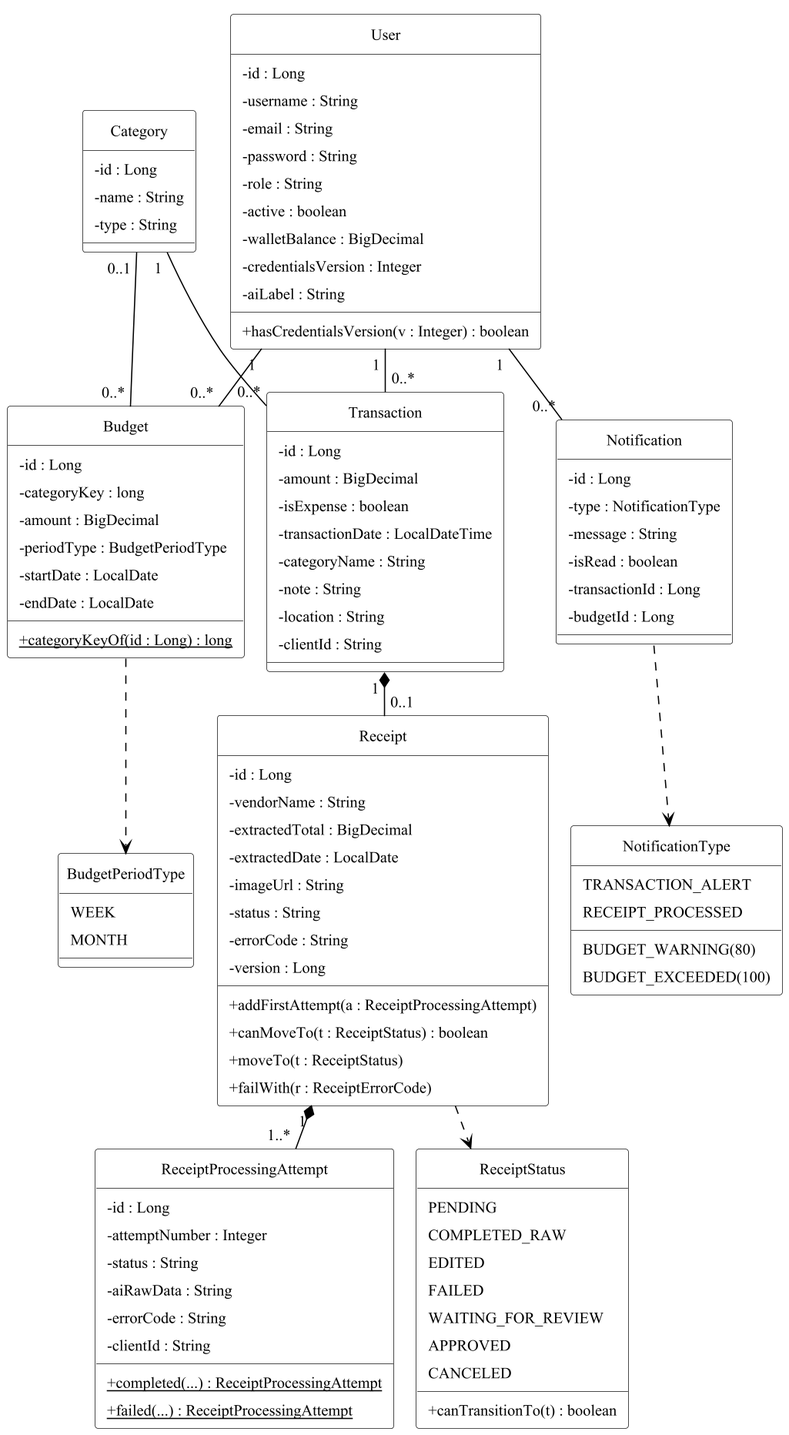
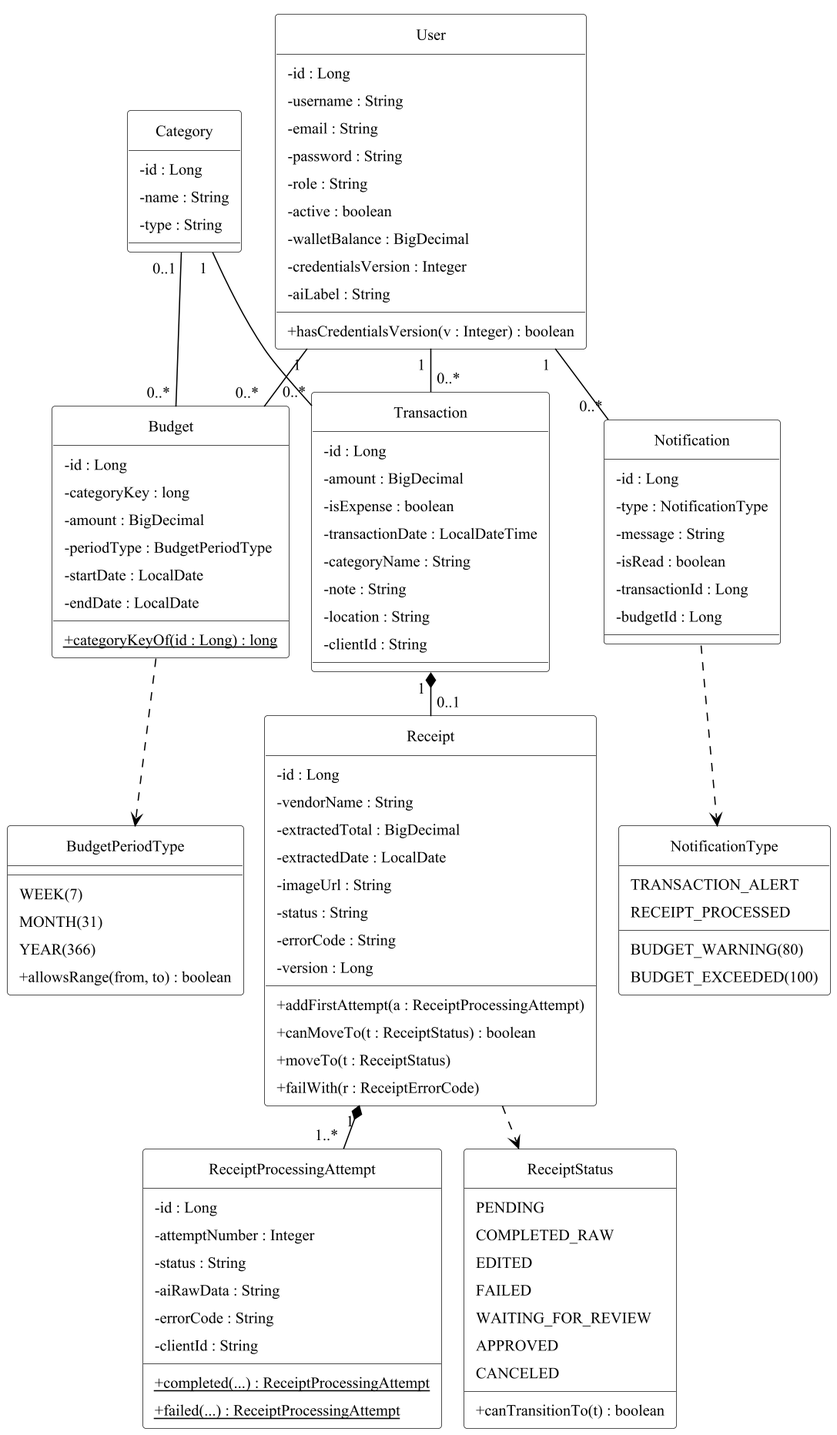
docs(thesis): v9 fixes stale facts, redraws budget/navigation/class diagrams, reviews the v8 sections

diff --git a/docs/thesis/build/content_v9.py b/docs/thesis/build/content_v9.py
@@ -1,0 +1,259 @@
+# Nội dung phiên v9 (26/10/2026): sửa các câu đã lỗi thời sau T4 (song ngữ), đợt sửa lỗi (6bc797c, 1898d1c, e619f54:
+# InsufficientBalanceException khi checkout và khi xóa khoản thu, khóa ví cả khi không có clientId, GET /api/auth/check +
+# forward_auth của Caddy, BackupType FULL/SCHEMA_ONLY/DATA_ONLY, users.html và nút Duyệt/Từ chối trên receipts.html,
+# phiên tương tác dùng chung cho _dio và _mlDio, chạm thông báo mở giao dịch), T10/T11 (kỳ năm, hàng chờ quét) và T5
+# (AI Service phục vụ V5, bộ nhớ 3 GB). Sinh KhoaLuan_KLCN175_v9.docx từ v8 bằng builder.py.
+# Vẽ lại: ch3_lop_thiet_ke_thuc_the (BudgetPeriodType có YEAR), ch2_ngan_sach_hoat_dong (kỳ năm, danh mục theo tên),
+# ch3_dieu_huong_di_dong (PendingReceiptsScreen từ banner), ch3_trien_khai (3 GB, forward_auth),
+# ch3_hang_doi_trang_thai (nhãn chuyển reading → queued).
+# Đối chiếu mã nguồn tại HEAD 5ce957c: TransactionService (create/delete/moveWallet, refuseDuplicateReceipt),
+# TransactionRepository.findPossibleReceiptDuplicates (LEFT JOIN FETCH), AuthPaths (CHECK), deploy/caddy/Caddyfile,
+# AdminController, templates/admin/{_layout, users, receipts, backup}.html, Entity/BackupType, GlobalExceptionHandler
+# (AiServiceUnavailableException 503), docker-compose.yml (data-mining-api 3G), ai-service/ai_service.py (Version5),
+# mobile-app lib/services/{receipt_scan_queue, remote_api_helper}.dart, screens/{main_scaffold, ledger/edit_transaction_page,
+# receipt_scanner/pending_receipts_screen, notifications/notification_destination}.dart.
+# Số trong văn bản: số Hình/Bảng cũ theo v8 (RENUMBER tự đổi); hình mới tham chiếu bằng [[khóa]].
+PNG = "/home/triphan/Workspace/Deploy_Project/docs/thesis/diagrams/"
+SESSION_TAG = None
+SECTIONS = {}
+RENUMBER = True
+SRC = "nguồn: nhóm thực hiện"
+
+IMAGE_REPLACE = [
+    ("ch2_ngan_sach_hoat_dong.png", PNG + "ch2_ngan_sach_hoat_dong.png", "fit"),
+    ("ch3_trien_khai.png", PNG + "ch3_trien_khai.png"),
+    ("ch3_dieu_huong_di_dong.png", PNG + "ch3_dieu_huong_di_dong.png"),
+    ("ch3_lop_thiet_ke_thuc_the.png", PNG + "ch3_lop_thiet_ke_thuc_the.png"),
+    ("ch3_hang_doi_trang_thai.png", PNG + "ch3_hang_doi_trang_thai.png"),
+]
+
+# Ghi chú tô vàng đã hết hiệu lực sau đợt sửa lỗi (users.html sửa đường dẫn khóa, receipts.html có nút Duyệt/Từ chối).
+PARA_DELETE = [
+    "[Nhóm] Nút khóa/mở khóa trên trang users.html",
+    "[Nhóm] Trang /admin/receipts hiện chỉ hiển thị danh sách",
+    "[Nhóm] UC17 mô tả chức năng ở Core Backend.",
+    "[Nhóm] receipts.html chưa có nút Duyệt/Từ chối",
+]
+
+INSERT_BEFORE = [
+    ("[Nhóm] Chèn ảnh chụp màn hình /admin/receipts",
+     [("fig", "Trang Quản lý người dùng", "3", None, 0, SRC,
+       "[Nhóm] Chèn ảnh chụp màn hình /admin/users (templates/admin/users.html).", "ui_users")]),
+]
+
+PARA_REPLACE = [
+    # Chương 1 – Docker: Caddy là dịch vụ thứ sáu (T8)
+    ("Docker đóng gói ứng dụng cùng toàn bộ phụ thuộc",
+     ("p", "Docker đóng gói ứng dụng cùng toàn bộ phụ thuộc thành image (ảnh đóng gói) và chạy dưới dạng container (vùng "
+           "chạy cô lập); Docker Compose mô tả nhiều container cùng mạng, volume (vùng lưu trữ) và thứ tự khởi động trong "
+           "một tệp YAML [38]. Hệ thống của đề tài được mô tả trong một tệp docker-compose.yml gồm sáu dịch vụ: reverse "
+           "proxy Caddy, PostgreSQL, Redis, MongoDB, Core Backend và AI Service. Core Backend chỉ khởi động khi "
+           "PostgreSQL, Redis và AI Service đã vượt qua kiểm tra sức khỏe (healthcheck); MongoDB không chặn việc khởi "
+           "động vì chỉ dùng để lưu nhật ký.")),
+    # 2.2 – đoạn kết: khóa ví không còn phụ thuộc clientId
+    ("Sáu quy trình trên cho thấy ba điểm chung",
+     ("p", "Sáu quy trình trên cho thấy ba điểm chung về cách hệ thống xử lý dữ liệu. Thứ nhất, mọi thay đổi số dư ví đều "
+           "đi qua Core Backend. Các thao tác tạo, sửa, xóa giao dịch và duyệt hóa đơn đều khóa bản ghi ví trước khi đọc "
+           "số dư và từ chối thay đổi nào làm số dư âm, nên hai yêu cầu đồng thời không ghi đè lên nhau; khi tạo giao "
+           "dịch, mã clientId bảo đảm một giao dịch gửi lặp không làm trừ tiền hai lần. Thứ hai, ứng dụng di động gọi "
+           "trực tiếp AI Service cho các tác vụ đọc hóa đơn và phân tích, còn kết quả chỉ được ghi vào cơ sở dữ liệu khi "
+           "người dùng xác nhận; khi chưa gửi được, giao dịch nằm trong hàng đợi trên thiết bị cùng kết quả gốc của AI. "
+           "Thứ ba, các thao tác thay đổi dữ liệu quan trọng đều có bản ghi trong nhật ký hoạt động. Mục 2.3 dựa trên các "
+           "quy trình này để xác định use case ở mức hệ thống.")),
+    ("Hai mươi hai use case trên phủ toàn bộ chức năng",
+     ("p", "Hai mươi sáu use case trên (UC01–UC26) phủ toàn bộ chức năng mà ứng dụng di động và Web Admin đang cung cấp. "
+           "Các chức năng có trong mã nguồn nhưng chưa được giao diện nào gọi (ví dụ đường dẫn lọc giao dịch, bảng điều "
+           "khiển tổng hợp của người dùng hay đường dẫn gửi phản hồi về hóa đơn) không được đưa vào danh sách. Các bảng "
+           "đặc tả này là cơ sở để xây dựng sơ đồ lớp mức phân tích ở mục 2.4.")),
+    # 3.2.1 – Caddy chặn /ai/donut, /ai/spade khi chưa đăng nhập
+    ("Mọi yêu cầu từ bên ngoài đi qua reverse proxy",
+     ("p", "Mọi yêu cầu từ bên ngoài đi qua reverse proxy (máy chủ ủy quyền ngược) Caddy [52]. Caddy chuyển /ai/donut/, "
+           "/ai/spade/ và /ai/health tới AI Service (bỏ tiền tố /ai), chặn các đường dẫn /actuator/* trừ /actuator/health, "
+           "và chuyển phần còn lại tới Core Backend. Riêng /ai/donut/ và /ai/spade/ chỉ được chuyển tiếp khi Core Backend "
+           "xác nhận access token của yêu cầu qua GET /api/auth/check (cơ chế forward_auth của Caddy), nên người chưa đăng "
+           "nhập không gọi được mô hình. Đường dẫn /admin/segment của AI Service không đi ra ngoài được; chỉ Core Backend "
+           "gọi nó qua mạng nội bộ khi quản trị viên chạy phân khúc khách hàng. Bảng 3.1 tóm tắt vai trò của từng thành "
+           "phần.")),
+    # 3.3.4 – LB2 nay áp cho mọi đường đổi số dư
+    ("Một số ràng buộc hiện chỉ được bảo đảm ở tầng ứng dụng",
+     ("p", "Một số ràng buộc hiện chỉ được bảo đảm ở tầng ứng dụng, chưa có ràng buộc tương ứng ở CSDL: amount > 0 của "
+           "giao dịch, rating từ 1 đến 5, các trạng thái của receipts (cột chuỗi, không phải enum), và LB2 về số dư không "
+           "âm (cột wallet_balance không có CHECK). LB2 được kiểm tra trên mọi đường đổi số dư: thêm, sửa giao dịch, xóa "
+           "một khoản thu và duyệt hóa đơn đều đi qua moveWallet() khi dòng ví đang bị khóa, nên hai yêu cầu đồng thời "
+           "không thể cùng vượt qua kiểm tra. Nhóm ghi nhận việc bổ sung các ràng buộc CHECK ở CSDL cho phiên bản sau.")),
+    # 3.6.1 – T4 đã dịch toàn bộ ứng dụng
+    ("Ứng dụng di động được xây dựng bằng Flutter [33] theo hệ thống thiết kế Material 3",
+     ("p", "Ứng dụng di động được xây dựng bằng Flutter [33] theo hệ thống thiết kế Material 3 [57] (useMaterial3 = true, "
+           "bảng màu sinh từ ColorScheme.fromSeed, phông chữ Poppins). Mỗi màn hình có hai bộ màu sáng và tối. Mọi chuỗi "
+           "giao diện của các màn hình đều lấy từ tệp ARB tiếng Việt và tiếng Anh (mục 4.7.3), nên đổi ngôn ngữ trong Cài "
+           "đặt là đổi toàn bộ ứng dụng; chỉ dữ liệu do người dùng nhập và thông báo lỗi tiếng Việt từ Core Backend giữ "
+           "nguyên ngôn ngữ gốc. Sau khi đăng nhập, người dùng vào MainScaffold: khung này giữ bốn tab Trang chủ "
+           "(DashboardPage), Thống kê (LedgerPage, tiêu đề màn hình là Sổ sách), AI (AITabPage) và Cá nhân (ProfilePage) "
+           "trong một IndexedStack (ngăn xếp chỉ hiển thị một con) để không dựng lại tab khi chuyển qua lại, và đặt nút "
+           "tròn Quét AI ở giữa thanh điều hướng. Bảng 3.25 liệt kê các màn hình cùng use case ở Chương 2 mà mỗi màn hình "
+           "hiện thực.")),
+    ("Hình 3.5 thể hiện đường đi giữa các màn hình chính.",
+     ("p", "Hình 3.5 thể hiện đường đi giữa các màn hình chính. Luồng xác thực là một nhánh riêng: chỉ khi đăng nhập thành "
+           "công, ứng dụng mới thay toàn bộ ngăn xếp điều hướng bằng MainScaffold (lệnh pushAndRemoveUntil, đẩy màn hình "
+           "mới và xóa các màn hình cũ), nên nút quay lại không đưa người dùng về màn hình đăng nhập. Từ MainScaffold, nút "
+           "Quét AI mở thẳng ReviewFormPage khi quét một ảnh, còn banner hàng chờ phía trên thanh tab mở "
+           "PendingReceiptsScreen, nơi mỗi hóa đơn Sẵn sàng lại mở ReviewFormPage. Chạm một thông báo giao dịch hoặc hóa "
+           "đơn đưa người dùng về Sổ sách với bảng chi tiết của giao dịch đó.")),
+    # 3.6.2 – Web Admin sau khi tách users.html
+    ("Web Admin là các trang Thymeleaf [55] do Core Backend sinh",
+     ("p", "Web Admin là các trang Thymeleaf [55] do Core Backend sinh ở phía máy chủ, dùng Bootstrap 5.3 [56] cho bố cục "
+           "và Chart.js [58] cho biểu đồ. Mọi trang dùng chung khung layout/_layout.html: thanh trên có tiêu đề trang và nút "
+           "Đăng xuất, thanh bên trái có tám mục Bảng điều khiển, Quản lý Danh mục, Quản lý Gói Hội Viên, Quản lý Người "
+           "dùng, Quản lý Hóa đơn AI, Quản lý Đánh giá, Nhật ký Hệ thống, Backup Dữ liệu. Khác với ứng dụng di động dùng "
+           "JWT, Web Admin dùng chuỗi bộ lọc riêng của Spring Security với đăng nhập bằng biểu mẫu và phiên làm việc; mọi "
+           "đường dẫn /admin/ yêu cầu vai trò ROLE_ADMIN. Các thao tác thêm, sửa, xóa trên trang gọi các endpoint "
+           "/admin/ajax/ bằng hàm fetch (gửi yêu cầu HTTP từ JavaScript) rồi cập nhật bảng. Bảng 3.26 liệt kê các trang.")),
+    ("Trang Quản lý User &",
+     ("p", "Trang Quản lý người dùng ([[ui_users]]) là bảng phân trang gồm ID, username, email, số điện thoại, vai trò và "
+           "cột trạng thái với các nút Sửa, Khóa/Mở khóa, Xóa, cùng nút Thêm người dùng mở hộp thoại tạo tài khoản. Trang "
+           "Quản lý hóa đơn AI (Hình 3.37) là bảng phân trang gồm ID, tên cửa hàng, số tiền AI đọc được, nút xem ảnh gốc, "
+           "trạng thái (Thành công, Lỗi AI, Đang xử lý) và cột Hành động. Nút Duyệt chỉ hiện ở hóa đơn được phép chuyển "
+           "sang APPROVED, nút Từ chối chỉ hiện ở hóa đơn được phép chuyển sang FAILED; hai nút gửi POST tới "
+           "/admin/receipts/approve/{id} và /admin/receipts/reject/{id} (mục 3.8.6).")),
+    ("Trang Đánh giá (Hình 3.38) liệt kê đánh giá",
+     ("p", "Trang Đánh giá (Hình 3.38) liệt kê đánh giá từ ứng dụng với số sao, nội dung, trạng thái Chờ duyệt/Đã duyệt và "
+           "nút Duyệt, Xóa. Trang Nhật ký hệ thống (Hình 3.39) chia thành các thẻ Dữ liệu (CRUD), Bảo mật, Thống kê và Tra "
+           "cứu nâng cao; thẻ tra cứu lọc theo người thực hiện, loại và mã đối tượng, khoảng thời gian, và thẻ Bảo mật có "
+           "nút Gỡ khóa cho tài khoản đang bị khóa đăng nhập. Trang Sao lưu (Hình 3.40) có ba nút sao lưu ứng với ba giá trị "
+           "của BackupType: FULL (toàn bộ cấu trúc và dữ liệu), SCHEMA_ONLY (chỉ cấu trúc) và DATA_ONLY (chỉ dữ liệu); mỗi "
+           "loại chạy pg_dump ở định dạng custom với tham số riêng, và loại không thuộc danh sách bị từ chối. Nút phục "
+           "hồi kèm cảnh báo xác nhận chỉ dùng bản FULL mới nhất, vì hai bản còn lại không tự dựng lại được CSDL.")),
+    # 3.7 – khóa ví khi tạo giao dịch không còn phụ thuộc clientId; _mlDio có token
+    ("Hình 3.42 trình bày ba tầng của Core Backend.",
+     ("p", "Hình 3.42 trình bày ba tầng của Core Backend. Controller chỉ nhận yêu cầu, kiểm tra dữ liệu bằng @Valid và gọi "
+           "service; service giữ toàn bộ nghiệp vụ trong giao dịch @Transactional; repository là các interface Spring Data "
+           "JPA. Người dùng hiện tại luôn được CurrentUserProvider lấy từ SecurityContext. TransactionService là lớp trung "
+           "tâm: nó khóa dòng ví bằng PESSIMISTIC_WRITE (lockWallet) trước khi đổi số dư ở mọi thao tác tạo, sửa, xóa "
+           "giao dịch và duyệt hóa đơn, đổi số dư qua moveWallet() (ném InsufficientBalanceException khi số dư sẽ âm), "
+           "gọi ReceiptProcessingService khi giao dịch có hóa đơn và gọi BudgetAlertService sau khi lưu để sinh cảnh báo "
+           "ngân sách. Riêng đăng nhập vẫn được xử lý ngay trong AuthController (mục 3.8.1).")),
+    ("Ở ứng dụng di động (Hình 3.43), các màn hình không gọi thẳng Dio",
+     ("p", "Ở ứng dụng di động (Hình 3.43), các màn hình không gọi thẳng Dio mà đi qua AppRepository và RemoteApiHelper. "
+           "AppRepository quyết định một giao dịch mới được ghi vào bảng SQLite cục bộ trước rồi mới gửi lên máy chủ, và "
+           "cập nhật cờ SyncStatus (pending, synced, error) theo kết quả gửi. RemoteApiHelper giữ hai đối tượng Dio: _dio "
+           "cho Core Backend và _mlDio cho AI Service. Cả hai dùng chung một bộ chặn phiên: gắn access token lấy từ "
+           "SessionService và làm mới token khi nhận 401, vì Caddy chỉ chuyển yêu cầu tới AI Service khi token hợp lệ.")),
+    ("[Nhóm] Bước 1 của Hình 3.55 giả định",
+     ("p", "Duyệt và từ chối hiện chưa tạo thông báo cho người dùng; chủ hóa đơn chỉ thấy trạng thái mới qua nhãn hóa đơn "
+           "trên Sổ sách.")),
+    # 3.8.7 – đăng xuất không đưa mục đang đọc về queued nếu yêu cầu đã gửi thành công
+    ("Hình 3.58 là sơ đồ trạng thái của một mục",
+     ("p", "Hình 3.58 là sơ đồ trạng thái của một mục trong hàng đợi [47]. Hai chuyển trạng thái đáng chú ý đều quay về "
+           "queued thay vì failed. Khi lượt đọc nhận 401 không làm mới được hoặc 403, phiên đăng nhập đã kết thúc và việc "
+           "đọc tiếp không thể thành công, nên mục được trả về hàng chờ và vòng đọc dừng. Khi người dùng đăng xuất, vòng "
+           "đọc dừng trước mục kế tiếp; các mục còn lại chỉ được đọc tiếp khi chính người dùng đó đăng nhập lại. Khi ứng "
+           "dụng bị tắt lúc một mục đang reading, lần mở sau MainScaffold gọi resume(); đầu mỗi lượt chạy, mọi mục reading "
+           "của người dùng được đưa về queued vì không còn ai đọc chúng. Lỗi mạng, lỗi máy chủ và ảnh không còn trên máy "
+           "được ghi thành failed với mã cố định network, server, missing_image để màn hình hiển thị lý do bằng ngôn ngữ "
+           "người dùng chọn.")),
+    # 3.8.8 – truy vấn dùng LEFT JOIN FETCH, giao dịch nhập tay cũng là ứng viên
+    ("Mã clientId ở mục 3.8.2 chỉ chống gửi lặp",
+     ("p", "Mã clientId ở mục 3.8.2 chỉ chống gửi lặp của cùng một lần lưu; hai lần quét cùng một tờ hóa đơn sinh hai "
+           "clientId khác nhau và trước đây đều được lưu. Chức năng chống lưu trùng (UC26) dùng các lớp của Hình 3.48, "
+           "thêm DuplicateReceiptException và truy vấn findPossibleReceiptDuplicates() của TransactionRepository. Hình "
+           "3.59 cho thấy kiểm tra chạy sau attachReceipt(), vì cần tên người bán của hồ sơ hóa đơn vừa tạo, và chạy khi "
+           "dòng ví đang bị khóa, nên hai lần lưu cùng một hóa đơn gửi đồng thời không thể cùng vượt qua. Truy vấn lọc theo "
+           "người dùng, chiều thu chi, số tiền và khoảng [phút, phút + 1) của ngày giao dịch, lấy kèm hồ sơ hóa đơn bằng "
+           "LEFT JOIN FETCH trong một câu lệnh, nên một giao dịch nhập tay cùng số tiền và cùng phút (không có người bán) "
+           "cũng được coi là bản đã lưu; tên người bán được so trong bộ nhớ sau khi normalizedSeller() chuyển về chữ "
+           "thường, bỏ dấu và dấu câu.")),
+    # 3.9 – AI Service đã chuyển sang V5 (T5)
+    ("Mục 2.5.5 đã phân tích vì sao cách thêm ký tự",
+     ("p", "Mục 2.5.5 đã phân tích vì sao cách thêm ký tự bằng added token ở bản V3 làm sai khoảng trắng tiếng Việt. Mục "
+           "này trình bày thiết kế cụ thể của bản V5 trong ai-service/Version5/model_config.py. Sau khi huấn luyện xong, "
+           "AI Service chuyển sang phục vụ bản V5 (mục 4.5.1); bản V3 được giữ làm mốc so sánh ở Chương 5. Bảng 3.28 tóm "
+           "tắt các tham số thiết kế của hai bản.")),
+    ("Ở AI Service, chuỗi sinh ra được bỏ token kết thúc",
+     ("p", "Ở bản V3, AI Service bỏ token kết thúc và token đệm của chuỗi sinh ra, đưa chuỗi qua clean_vietnamese_text() "
+           "để ghép lại các âm tiết bị tách bởi tokenizer V3, rồi dùng processor.token2json() chuyển thành JSON [40]. "
+           "extract_final_cost() bỏ dấu chấm, dấu phẩy và lấy số lớn nhất trong chuỗi tổng tiền làm total_cost_number. "
+           "Nếu chuỗi không chuyển được sang JSON, dịch vụ trả về {\"raw_text\": …} để ứng dụng cho người dùng nhập tay. "
+           "Ở Core Backend, OcrService.extract() là nơi duy nhất đọc câu trả lời của AI; Bảng 3.30 liệt kê các quy tắc của "
+           "nó.")),
+    ("Thiết kế vẫn còn hạn chế: hậu xử lý ở AI Service",
+     ("p", "Thiết kế vẫn còn hạn chế: ngày và địa điểm người dùng sửa trên biểu mẫu đối soát có thể bị giá trị AI ghi đè; "
+           "duyệt hoặc từ chối hóa đơn chưa tạo thông báo cho người dùng; hàng đợi quét nhiều hóa đơn chỉ chạy khi ứng "
+           "dụng đang mở. Chương 4 trình bày việc cài đặt các thiết kế này và quá trình huấn luyện mô hình DONUT.")),
+    # 4.7.2 – sửa giao dịch đi thẳng PUT, không qua createTransaction
+    ("Ghi chép thu chi: AddTransactionPage và EditTransactionPage",
+     ("p", "Ghi chép thu chi: AddTransactionPage gửi giao dịch mới qua AppRepository.createTransaction(). Hàm này sinh "
+           "clientId, ghi bản chờ vào SQLite trước, rồi mới gọi API; kết quả trả về là một SyncStatus (đã đồng bộ, chưa "
+           "gửi được, bị từ chối). Các giao dịch chưa gửi được hiển thị nhãn trạng thái trong LedgerPage và được "
+           "resendUnsyncedTransactions() gửi lại khi ứng dụng khởi động, khi quay lại từ nền, hoặc khi người dùng kéo để "
+           "làm mới. EditTransactionPage chỉ gửi các trường đã đổi bằng PUT /api/transactions/{id} qua "
+           "RemoteApiHelper.updateTransaction(), nên việc sửa cần có kết nối mạng.")),
+    # 4.8 – giới hạn bộ nhớ AI Service là 3 GB
+    ("Hai rủi ro còn lại: giới hạn 1 GB",
+     ("p", "Hai rủi ro còn lại: giới hạn 3 GB cho AI Service mới được chọn theo ước lượng cho mô hình V5 (tệp trọng số "
+           "khoảng 806 MB) chạy trên CPU với ảnh 1920 × 1440, chưa được đo trên máy chủ, và chỉ đủ cho một lượt suy luận "
+           "mỗi lúc (mục 4.5.1); trọng số không nằm trong Git nên phải chép thủ công lên máy chủ trước khi build. Kết quả "
+           "triển khai thực tế được trình bày ở Chương 5.")),
+    ("[Nhóm] Sau khi triển khai, ghi bộ nhớ thực tế",
+     ("y", "[Nhóm] Sau khi triển khai, ghi bộ nhớ thực tế của container data-mining-api khi quét một hóa đơn (lệnh docker "
+           "stats) để xác nhận hoặc điều chỉnh giới hạn 3 GB.")),
+]
+
+TABLE_ROWS = [
+    ("Danh sách API RESTful của Core Backend", "POST /api/auth/refresh", [
+        ["", "GET /api/auth/check", "Kiểm tra access token cho forward_auth của Caddy (204 khi hợp lệ)", "JWT"]]),
+    ("Danh sách trang của Web Admin", "/admin/subscriptions", [
+        ["/admin/users", "users.html", "Thêm, sửa, xóa, khóa hoặc mở khóa tài khoản người dùng"]]),
+]
+
+TEXT_REPLACE = [
+    # Chương 2 – quy trình nghiệp vụ
+    ("6. Vì yêu cầu có clientId, Core Backend khóa bản ghi ví",
+     "6. Core Backend khóa bản ghi ví", 1),
+    ("8b. Người dùng xóa một giao dịch: Core Backend hoàn lại ảnh hưởng của giao dịch lên số dư rồi xóa;",
+     "8b. Người dùng xóa một giao dịch: Core Backend hoàn lại ảnh hưởng của giao dịch lên số dư rồi xóa (nếu xóa một "
+     "khoản thu làm số dư âm thì từ chối, giao dịch được giữ);", 1),
+    ("độ dài kỳ không quá 7 ngày với kỳ tuần và không quá 31 ngày với kỳ tháng.",
+     "độ dài kỳ không quá 7 ngày với kỳ tuần, 31 ngày với kỳ tháng và 366 ngày với kỳ năm.", 1),
+    ("5. Core Backend kiểm tra danh mục tồn tại và người dùng chưa có ngân sách",
+     "5. Core Backend xác định danh mục (theo mã, hoặc theo tên người dùng gõ khi chọn “Khác”: dùng lại danh mục cùng "
+     "tên, chưa có thì tạo mới) và kiểm tra người dùng chưa có ngân sách", 1),
+    # 2.3 – use case
+    ("Web Admin: trang Người dùng, trang Hóa đơn", "Web Admin: trang Người dùng", 1),
+    ("sửa số tiền, danh mục hoặc ghi chú: Core Backend khóa ví",
+     "sửa số tiền, danh mục, ngày giao dịch hoặc ghi chú: Core Backend khóa ví", 1),
+    ("hoàn lại ảnh hưởng của giao dịch lên số dư rồi xóa; giao dịch chưa từng đồng bộ chỉ bị xóa trên thiết bị.",
+     "hoàn lại ảnh hưởng của giao dịch lên số dư rồi xóa; nếu xóa một khoản thu làm số dư âm, Core Backend trả 400 "
+     "(InsufficientBalanceException) và giữ giao dịch. Giao dịch chưa từng đồng bộ chỉ bị xóa trên thiết bị.", 1),
+    ("và mở màn hình Ngân sách nếu là cảnh báo ngân sách.",
+     "rồi mở màn hình Ngân sách nếu là cảnh báo ngân sách, hoặc bảng chi tiết của giao dịch liên quan trên Sổ giao "
+     "dịch nếu là thông báo giao dịch hay hóa đơn.", 1),
+    ("3b. Phiên đăng nhập kết thúc (401, 403) hoặc người dùng đăng xuất: vòng đọc dừng, mục đang đọc trở về queued và "
+     "chỉ được đọc tiếp khi chính người dùng đó đăng nhập lại.",
+     "3b. AI Service trả 401 không làm mới được hoặc 403: mục đang đọc trở về queued và vòng đọc dừng. Người dùng đăng "
+     "xuất: vòng đọc dừng trước mục kế tiếp. Các mục còn lại chỉ được đọc tiếp khi chính người dùng đó đăng nhập lại.", 1),
+    ("Core Backend trả mã 400 kèm thông báo lỗi; nhãn cũ được giữ nguyên.",
+     "Core Backend trả mã 503 với thông báo cố định (AiServiceUnavailableException); nhãn cũ được giữ nguyên.", 1),
+    ("trong 22 bảng đặc tả use case", "trong 26 bảng đặc tả use case", 1),
+    ("với cấu hình của bản V3 mà AI Service đang phục vụ",
+     "với cấu hình của bản V3, bản AI Service phục vụ trước khi chuyển sang V5 (mục 4.5.1)", 1),
+    ("Kiến trúc DONUT với cấu hình của mô hình đang phục vụ", "Kiến trúc DONUT với cấu hình của mô hình V3", 1),
+    # Chương 3
+    ("thông qua 22 use case", "thông qua 26 use case", 1),
+    ("Giới hạn 1 GB; uvicorn", "Giới hạn 3 GB; uvicorn", 1),
+    ("; khi tạo giao dịch, chỉ khóa nếu yêu cầu có clientId", "", 1),
+    ("Thêm hoặc sửa một khoản chi không được làm wallet_balance nhỏ hơn 0",
+     "Thêm, sửa, xóa giao dịch (kể cả xóa một khoản thu) và duyệt hóa đơn không được làm wallet_balance nhỏ hơn 0", 1),
+    ("TransactionService (RuntimeException khi tạo; InsufficientBalanceException khi sửa, duyệt)",
+     "TransactionService.moveWallet() dưới khóa ví → InsufficientBalanceException (400)", 1),
+    ("liệt kê 49 endpoint REST", "liệt kê 51 endpoint REST", 1),
+    (" (trừ change-password và logout), /api/payment/webhook", " (trừ change-password, logout và check), /api/payment/webhook", 1),
+    ("Sửa số tiền, danh mục, ghi chú của giao dịch", "Sửa số tiền, danh mục, ngày, ghi chú của giao dịch", 1),
+    ("mục Lỗi có nút Đọc lại, mọi mục có nút Bỏ.", "mục Lỗi có nút Đọc lại, mục Sẵn sàng và mục Lỗi có nút Bỏ.", 1),
+    ("Danh sách hóa đơn AI và danh sách tài khoản", "Danh sách hóa đơn AI, duyệt hoặc từ chối từng hóa đơn", 1),
+    ("Trang Quản lý User & Hóa đơn AI (nguồn", "Trang Quản lý hóa đơn AI (nguồn", 1),
+    ("V3 (đang phục vụ)", "V3 (bản trước)", 1),
+    ("V5 (huấn luyện lại)", "V5 (đang phục vụ)", 1),
+    ("và 8 trang Web Admin", "và 9 trang Web Admin", 1),
+    # Chương 4 – Bảng 4.10
+    ("1 GB", "3 GB", 1),
+]

diff --git a/docs/thesis/build/builder.py b/docs/thesis/build/builder.py
@@ -21,6 +21,10 @@ Tùy chọn (từ phiên T10/T11, chèn vào giữa quyển):
   TEXT_REPLACE [(chuỗi cũ, chuỗi mới, số lần)] thay trong từng <w:t>;
   RENUMBER = True: đánh số lại mọi chú thích Hình/Bảng theo thứ tự trong quyển, cập nhật mọi tham chiếu
   "Hình c.n"/"Bảng c.n" trong văn bản theo số mới và thay [[key]].
+Tùy chọn (từ phiên v9):
+  PARA_DELETE [đầu đoạn, ...] xóa đúng một đoạn (ví dụ ghi chú tô vàng đã hết hiệu lực);
+  IMAGE_REPLACE [(tên tệp trong word/media, đường dẫn PNG mới[, "fit"])] thay ảnh, giữ chiều rộng đang đặt và tính lại
+  chiều cao; với "fit", ảnh mới được thu lại để không cao hơn ảnh cũ và không quá MAX_FIT_CM.
 """
 import html
 import importlib.util
@@ -31,6 +35,7 @@ import sys
 from pathlib import Path
 
 EMU_PER_CM = 360000
+MAX_FIT_CM = 21  # chiều cao tối đa của hình "fit": vùng chữ 24,7 cm trừ chỗ cho chú thích
 
 
 def esc(s):
@@ -218,6 +223,8 @@ def main(root, content_path):
     insert_after = list(getattr(content, "INSERT_AFTER", []))
     heading_ph = dict(getattr(content, "HEADING_PLACEHOLDERS", {}))
     hits_before, hits_after, ph_done = [0] * len(insert_before), [0] * len(insert_after), set()
+    para_delete = list(getattr(content, "PARA_DELETE", []))
+    hits_delete = [0] * len(para_delete)
     pending_after = ""
     out, pos, last_heading = [], 0, None
     for m in re.finditer(r"<w:p[ >].*?</w:p>|<w:tbl>.*?</w:tbl>", xml, flags=re.S):
@@ -235,6 +242,10 @@ def main(root, content_path):
         if style in ("Heading1", "Heading2", "Heading3"):
             skipping = False
         if skipping:
+            continue
+        hit_del = next((i for i, prefix in enumerate(para_delete) if p.startswith("<w:p") and txt.startswith(prefix)), None)
+        if hit_del is not None:
+            hits_delete[hit_del] += 1
             continue
         for i, (prefix, blocks) in enumerate(insert_before):
             if txt.startswith(prefix):
@@ -283,6 +294,9 @@ def main(root, content_path):
     bad = [x for x, n in zip(insert_before, hits_before) if n != 1] + [x for x, n in zip(insert_after, hits_after) if n != 1]
     if bad or set(heading_ph) - ph_done:
         raise SystemExit(f"Điểm chèn không khớp đúng một lần: {[b[0] for b in bad]}, {set(heading_ph) - ph_done}")
+    bad_del = [x for x, n in zip(para_delete, hits_delete) if n != 1]
+    if bad_del:
+        raise SystemExit(f"PARA_DELETE không khớp đúng một đoạn: {bad_del}")
     for anchor, lines in getattr(content, "PARA_LINES_AFTER", []):
         xml = para_lines_after(xml, anchor, lines)
     for caption, after_row, rows in getattr(content, "TABLE_ROWS", []):
@@ -294,6 +308,8 @@ def main(root, content_path):
 
     for abbr in getattr(content, "ABBREVIATIONS", []):
         xml = add_abbreviation(xml, *abbr)
+    for media_name, png, *opt in getattr(content, "IMAGE_REPLACE", []):
+        xml = image_replace(doc, xml, media_name, png, "fit" in opt)
 
     xml_path.write_text(xml, encoding="utf8")
     doc.rels_path.write_text(doc.rels, encoding="utf8")
@@ -400,6 +416,39 @@ def renumber(xml):
     if "[[" in re.sub(r"<[^>]+>", "", xml):
         raise SystemExit("Còn tham chiếu [[key]] chưa giải được")
     print("renumber:", {k: v for k, v in counters.items()}, "keys:", keys)
+    return xml
+
+
+def image_replace(doc, xml, media_name, png, fit=False):
+    """Chép PNG mới đè lên word/media/<media_name>; mỗi hình dùng ảnh đó giữ cx, cy tính lại theo tỉ lệ ảnh mới."""
+    rid = re.search(r'Id="(rId\d+)"[^>]*Target="media/' + re.escape(media_name) + '"', doc.rels)
+    if not rid:
+        raise SystemExit(f"IMAGE_REPLACE: không có ảnh media/{media_name}")
+    rid = rid.group(1)
+    shutil.copy(png, doc.root / "word/media" / media_name)
+    w, h = png_size(png)
+    count = 0
+
+    def fix(m):
+        nonlocal count
+        d = m.group(0)
+        if f'r:embed="{rid}"' not in d:
+            return d
+        count += 1
+        old = re.search(r'<wp:extent cx="(\d+)" cy="(\d+)"', d)
+        cx, old_cy = int(old.group(1)), int(old.group(2))
+        cy = int(cx * h / w)
+        limit = min(old_cy, MAX_FIT_CM * EMU_PER_CM)
+        if fit and cy > limit:
+            cx, cy = int(limit * w / h), limit
+        size = lambda x: f'{x.group(1)}cx="{cx}" cy="{cy}"'
+        d = re.sub(r'(<wp:extent )cx="\d+" cy="\d+"', size, d)
+        return re.sub(r'(<a:ext )cx="\d+" cy="\d+"', size, d)
+
+    xml = re.sub(r"<w:drawing>.*?</w:drawing>", fix, xml, flags=re.S)
+    if count != 1:
+        raise SystemExit(f"IMAGE_REPLACE: media/{media_name} được dùng {count} lần, cần 1")
+    print("image replaced:", media_name, f"{w}x{h}")
     return xml
 
 
